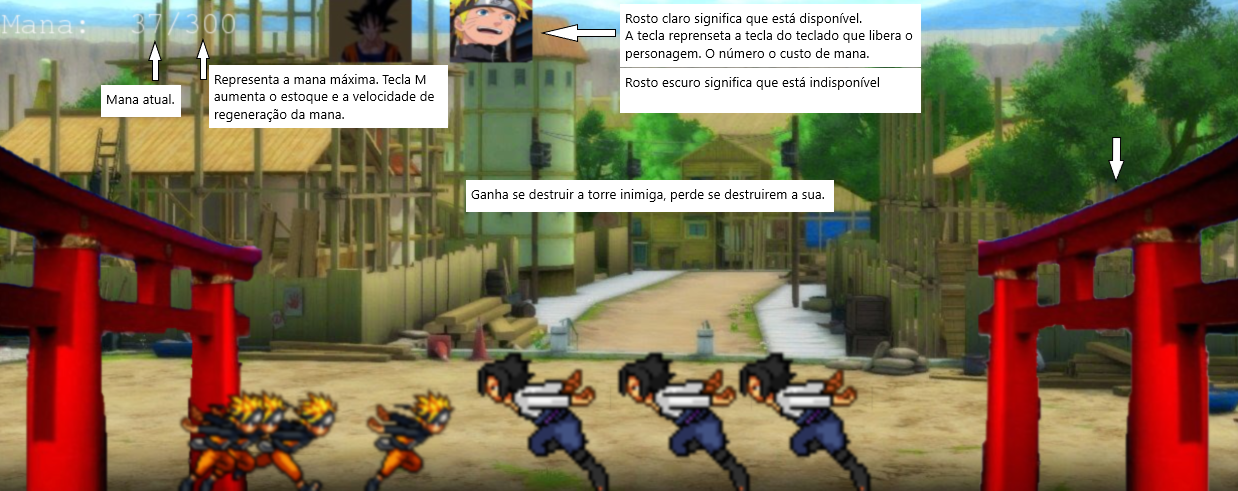
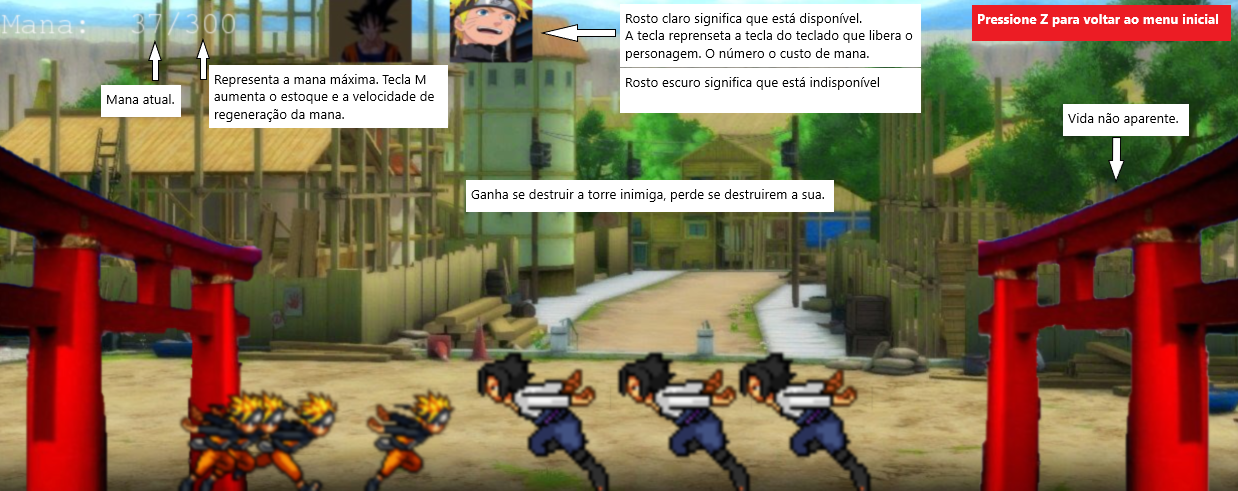
Fernando
arrumei a tela de tutorial e aumentei o contador de wave

Changed region(s): [[0.7674, 0.0, 1.0, 0.0916], [0.8595, 0.2138, 0.9822, 0.2749]]

diff --git a/Projeto_Final.py b/Projeto_Final.py
@@ -249,7 +249,7 @@ while rodando:
     if contador2 == 15:
         contador2 = 0
         wave += 1
-    if wave == 10:
+    if wave == 100:
         contador2 = 0
 # printar o contador de mana https://stackoverflow.com/questions/19733226/python-pygame-how-to-make-my-score-text-update-itself-forever   
     manatexto = fonte.render("Mana:  {0}/{1}".format(int(mana),mana_max), 7, (250,250,250))
